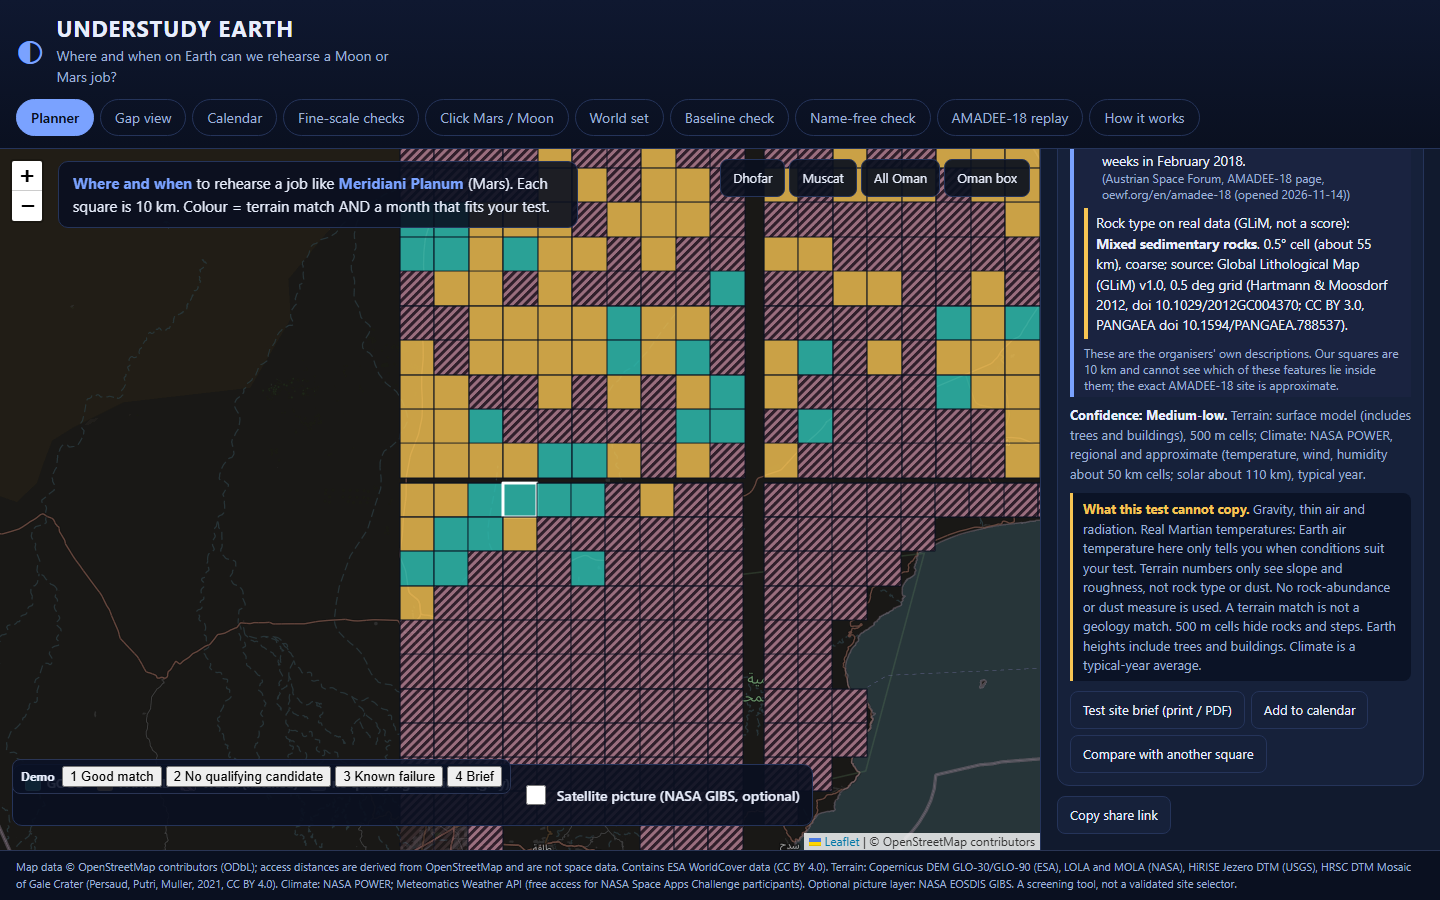
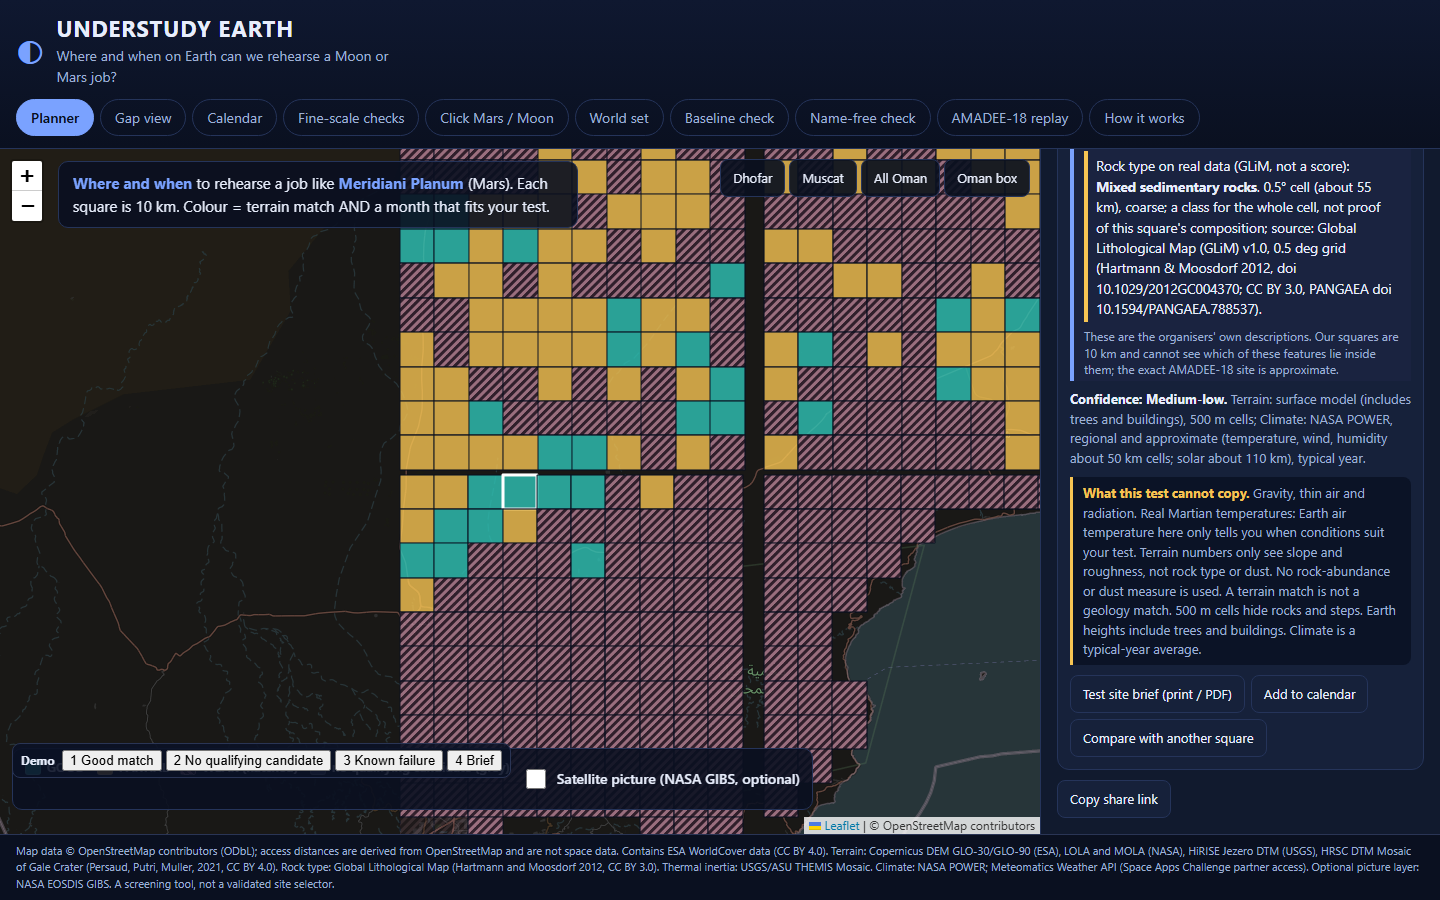
complete credits (GLiM, THEMIS, Copernicus attribution) and verify the NHSJS citation in full

diff --git a/app/index.html b/app/index.html
@@ -110,11 +110,11 @@
       <h3>What our data cannot see</h3>
       <ul class="cant"><li>Rocks, steps and slopes smaller than 500 m</li><li>Earth heights are a surface model (trees, buildings); Moon and Mars are bare ground</li><li>Climate is a typical-year average on a coarse grid (NASA POWER temperature, wind and humidity cells about 50 km, solar about 110 km), not local weather</li><li>Moon: south pole only. Oman: only the tiles we hold.</li></ul>
       <h3>Checks</h3><div id="second"></div>
-      <p class="credit">Data: LOLA (NASA/GSFC), MOLA (NASA/USGS), NASA POWER climatology, Copernicus DEM GLO-30/GLO-90 (ESA), ESA WorldCover 2021 (CC BY 4.0), HRSC DTM Mosaic of Gale Crater (Persaud/Putri/Muller 2021, CC BY 4.0), NASA EOSDIS GIBS, Meteomatics Weather API (free Space Apps participant access). Basemap &copy; OpenStreetMap contributors. Code: Apache 2.0.</p>
+      <p class="credit">Data: LOLA (NASA/GSFC), MOLA (NASA/USGS), NASA POWER climatology, Copernicus DEM GLO-30/GLO-90 (ESA), ESA WorldCover 2021 (CC BY 4.0), HRSC DTM Mosaic of Gale Crater (Persaud/Putri/Muller 2021, CC BY 4.0), Global Lithological Map (Hartmann and Moosdorf 2012, CC BY 3.0), USGS/ASU THEMIS Thermal Inertia Mosaic, NASA EOSDIS GIBS, Meteomatics Weather API (Space Apps partner access). Basemap &copy; OpenStreetMap contributors. Code: Apache 2.0.</p>
     </div>
   </aside>
 </main>
-<footer class="foot">Map data &copy; OpenStreetMap contributors (ODbL); access distances are derived from OpenStreetMap and are not space data. Contains ESA WorldCover data (CC BY 4.0). Terrain: Copernicus DEM GLO-30/GLO-90 (ESA), LOLA and MOLA (NASA), HiRISE Jezero DTM (USGS), HRSC DTM Mosaic of Gale Crater (Persaud, Putri, Muller, 2021, CC BY 4.0). Climate: NASA POWER; Meteomatics Weather API (free access for NASA Space Apps Challenge participants). Optional picture layer: NASA EOSDIS GIBS. A screening tool, not a validated site selector.</footer>
+<footer class="foot">Map data &copy; OpenStreetMap contributors (ODbL); access distances are derived from OpenStreetMap and are not space data. Contains ESA WorldCover data (CC BY 4.0). Terrain: Copernicus DEM GLO-30/GLO-90 (ESA), LOLA and MOLA (NASA), HiRISE Jezero DTM (USGS), HRSC DTM Mosaic of Gale Crater (Persaud, Putri, Muller, 2021, CC BY 4.0). Rock type: Global Lithological Map (Hartmann and Moosdorf 2012, CC BY 3.0). Thermal inertia: USGS/ASU THEMIS Mosaic. Climate: NASA POWER; Meteomatics Weather API (Space Apps Challenge partner access). Optional picture layer: NASA EOSDIS GIBS. A screening tool, not a validated site selector.</footer>
 <div id="brief" class="brief" hidden></div>
 <div id="t3d" class="brief" hidden><div class="bar-top"><button data-act="rot3d" data-dir="-1">&#8634; Rotate</button><button data-act="rot3d" data-dir="1">Rotate &#8635;</button><button data-act="closet3d">Close</button></div><h2>3D view: same data as the twin pictures</h2>
 <div class="twins"><figure><canvas id="t3dcvA" width="300" height="260" aria-label="3D terrain, target"></canvas></figure><figure><canvas id="t3dcvB" width="300" height="260" aria-label="3D terrain, Earth square"></canvas></figure></div>

diff --git a/app/app.js b/app/app.js
@@ -230,7 +230,7 @@
   function notesHtml(e) {
     var n = D.notes && D.notes[e.group];
     var lith = D.lith && D.lith.by_id && D.lith.by_id[e.id];
-    var lithLine = lith ? '<p class="note">Rock type on real data (GLiM, not a score): <b>' + esc(lith.name) + '</b>. 0.5&deg; cell (about 55 km), coarse; source: ' + esc(D.lith.source) + '.</p>' : '';
+    var lithLine = lith ? '<p class="note">Rock type on real data (GLiM, not a score): <b>' + esc(lith.name) + '</b>. 0.5&deg; cell (about 55 km), coarse; a class for the whole cell, not proof of this square\'s composition; source: ' + esc(D.lith.source) + '.</p>' : '';
     if (!n && !lithLine) return '';
     if (!n) return '<div class="geo">' + lithLine + '</div>';
     return '<div class="geo"><h3>' + esc(n.title) + '</h3><ul>' + n.notes.map(function (x) { return '<li>' + esc(x.text) + ' <small>(' + esc(x.source) + ')</small></li>'; }).join('') + '</ul>' + lithLine + '<small>' + esc(n.caveat) + '</small></div>';

diff --git a/docs/REFERENCES.md b/docs/REFERENCES.md
@@ -4,7 +4,7 @@
 - MGS MOLA DEM 463 m global mosaic, NASA/USGS Astropedia.
 - NASA POWER (Prediction Of Worldwide Energy Resources), monthly and annual climatology API v2.10.1, power.larc.nasa.gov, community RE, endpoint /api/temporal/climatology/point, parameters T2M, T2M_MAX, T2M_MIN, WS2M, RH2M, PRECTOTCORR, ALLSKY_SFC_SW_DWN, 25-year climatology Jan 2001 to Dec 2025, accessed 2026-11-14. Temperature, wind and humidity (MERRA-2 based) on about 0.5 x 0.625 degree cells (about 50 km); solar (CERES SYN1deg based) on about 1 degree cells (about 110 km), per power.larc.nasa.gov/docs/methodology/data/sources/ (seen in a search excerpt; one POWER FAQ gives half-degree for some solar products). Values are regional and approximate.
 ## Partner and other data
-- Copernicus DEM GLO-30, ESA, via AWS open data (copernicus-dem-30m). ESA partner data.
+- Copernicus DEM GLO-30, ESA, via AWS open data (copernicus-dem-30m). ESA partner data. Required attribution (verified: AWS Open Data registry page, registry.opendata.aws/copernicus-dem/, 2026-11-15): "Copernicus Digital Elevation Model (DEM) was accessed on [date] from https://registry.opendata.aws/copernicus-dem." The registry page does not name a specific licence; it states the data is provided free for general public use. The data was accessed 2026-11-14/15 (see per-tile notes below).
 - ESA WorldCover 10 m 2021 v200, ESA / VITO, CC BY 4.0 (AWS registry listing), bucket esa-worldcover, anonymous HTTP reads, no login. Windowed reads of cloud-optimised tiles over HTTPS. Derived tree/crop/built-up shares per square are shown with the credit "Contains ESA WorldCover data, CC BY 4.0". Licence taken from the AWS Open Data registry listing; full licence text not reopened.
 - AMADEE-18: Austrian Space Forum, oewf.org/en/amadee-18 (opened 2026-11-14): February 2018, four weeks, Dhofar; expected February temperatures 16-27 C, under 10 mm precipitation; no numeric test limits.
 - Mars 2020 TRN HiRISE DTM mosaic of Jezero, USGS Astrogeology, 2020.
@@ -24,7 +24,7 @@
 numpy, scipy, rasterio, pyproj, Playwright (testing), Leaflet 1.9.4; basemap tiles (c) OpenStreetMap contributors.
 ## Research notes (not used as data)
 - Candidate extra factors with access and licence status: docs/EXTRA_FACTORS_RESEARCH.md (terms checked or marked UNVERIFIED there). No data from those candidates is published.
-- Marlow, Martins and Sephton (2010) review of Mars analogue sites, Astrobiology (seen in search results only); InSight landing-site assessment, PMC7507760 (excerpt only); NHSJS 2026 "Finding Earth's Best Testbeds for Moon and Mars Rovers" (excerpt only).
+- Marlow, Martins and Sephton (2010) review of Mars analogue sites, Astrobiology (seen in search results only); InSight landing-site assessment, PMC7507760 (excerpt only); Sanganeria, "Finding Earth's Best Testbeds for Moon and Mars Rovers: A Quantitative Terrain Comparison", NHSJS, April 2026, nhsjs.com/2026/finding-earths-best-testbeds-for-moon-and-mars-rovers-a-quantitative-terrain-comparison/ (opened and read in full, 2026-11-15; described only as its own abstract states, an independent image-texture terrain comparison, not used as support for our elevation-based numbers). No Qaidam Basin paper claim was found anywhere in this repo to check.
 
 ## Source check for the cited rover values (opened 2026-11-14, text read in full)
 - Curiosity: https://robotics.jpl.nasa.gov/media/documents/2020-mobility-trending.pdf (opened as text). Read: Table 1 "Curiosity mobility-related mission peaks during the first seven years": Max rover pitch, sol 2476, 25.22 degrees; Max rover roll, sol 2047, 20.69 degrees; Max rover tilt, sol 2477, 25.34 degrees. Abstract: data "as of August 6, 2019 (sol 2488)".

diff --git a/docs/EXTRA_FACTORS_RESEARCH.md b/docs/EXTRA_FACTORS_RESEARCH.md
@@ -2,7 +2,7 @@
 
 Only what I opened or saw in a search result is stated as fact. Everything else is UNVERIFIED. Hours = one person with a coding agent. Nothing here is built yet.
 
-**What the sources say.** A review of Mars analogue sites (Marlow, Martins and Sephton, Astrobiology 2010, seen in search results, full text not opened) groups site criteria into physical, thermophysical (albedo, thermal inertia) and environmental, and says good analogue soils should match Mars in mineralogy, elemental content, volatiles and organics. InSight landing-site assessment (PMC7507760, search excerpt) used thermal inertia, rock abundance (shadows, thermal differencing) and slope together. A 2026 student paper (NHSJS, "Finding Earth's Best Testbeds for Moon and Mars Rovers") says analog choice is still mostly heuristic and that its own image-texture ranking is a screening tool, not a physics assessment. No source I found gives one agreed threshold list. That supports labelling our score a screening aid.
+**What the sources say.** A review of Mars analogue sites (Marlow, Martins and Sephton, Astrobiology 2010, seen in search results, full text not opened) groups site criteria into physical, thermophysical (albedo, thermal inertia) and environmental, and says good analogue soils should match Mars in mineralogy, elemental content, volatiles and organics. InSight landing-site assessment (PMC7507760, search excerpt) used thermal inertia, rock abundance (shadows, thermal differencing) and slope together. A 2026 student paper (Sanganeria, "Finding Earth's Best Testbeds for Moon and Mars Rovers: A Quantitative Terrain Comparison", NHSJS, April 2026, nhsjs.com/2026/finding-earths-best-testbeds-for-moon-and-mars-rovers-a-quantitative-terrain-comparison/, opened and read in full) computes its own image-derived texture descriptors from orbital imagery ("a brightness variability index capturing spatial intensity heterogeneity, and ... a local-gradient roughness proxy capturing small-scale intensity transitions" — its abstract); it is a different, image-texture method, not the elevation-based method used here, and is cited only to say that independent analog-screening work exists, not as support for our specific numbers. No source I found gives one agreed threshold list. That supports labelling our score a screening aid.
 
 | Factor | Why used (source) | Best data and access | Licence / public derived values | Size | Hours | Verdict |
 |---|---|---|---|---|---|---|
